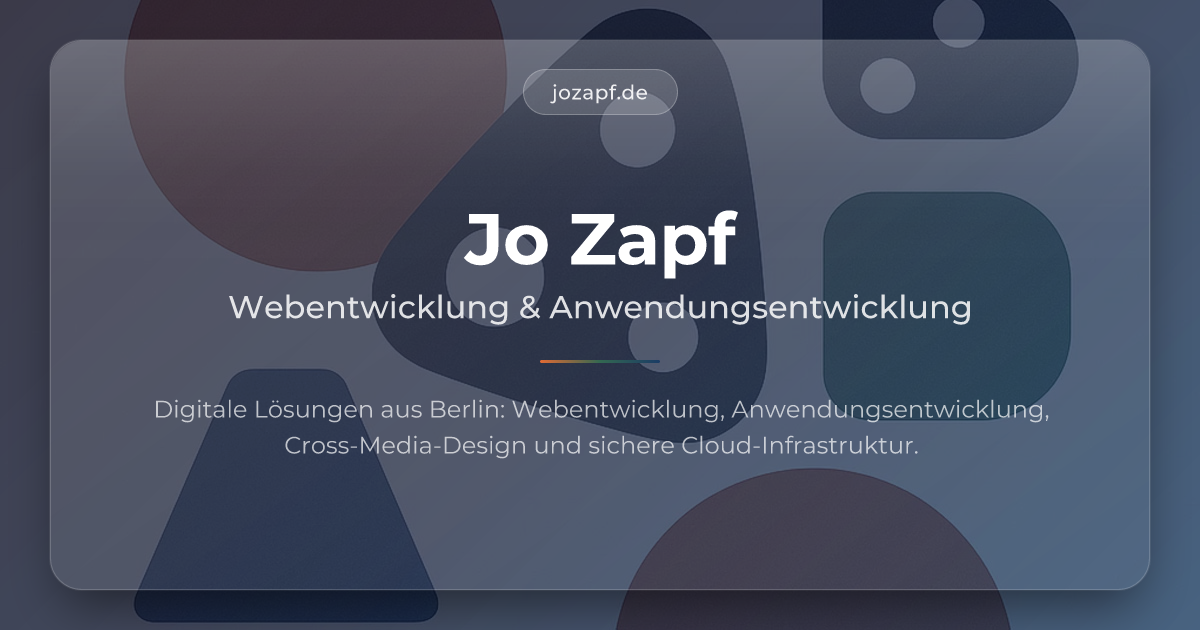
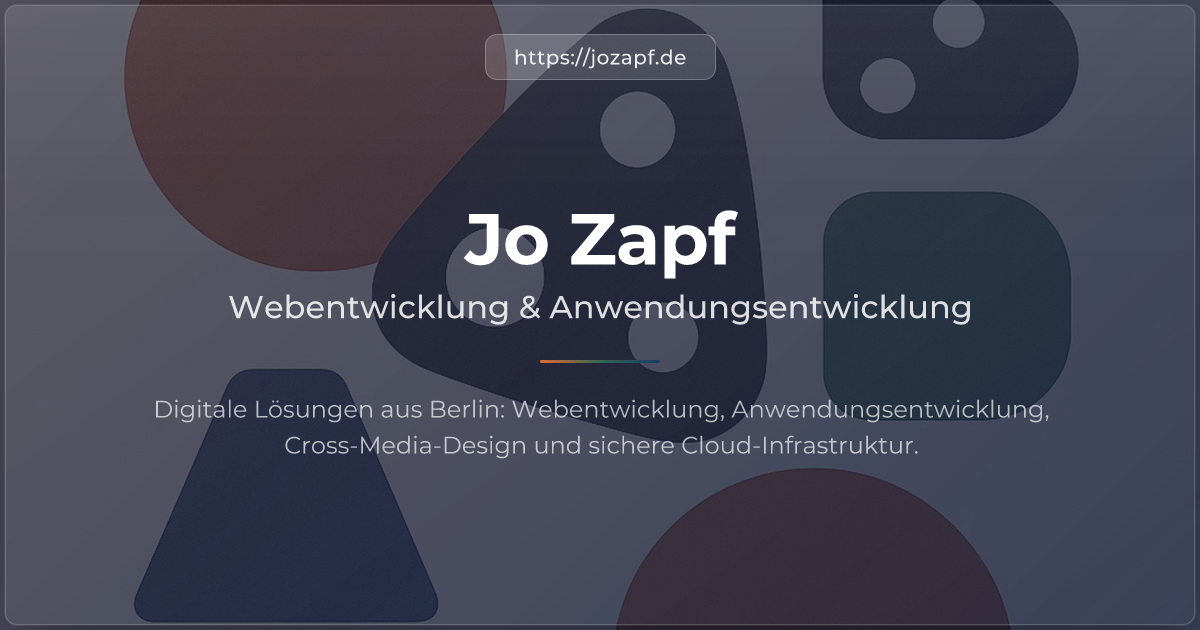
docs: updating og-images

Changed region(s): [[0.0, 0.0, 1.0, 1.0], [0.3083, 0.9349, 0.5242, 1.0], [0.2158, 0.9349, 0.2467, 0.9651]]

diff --git a/scripts/generate-og-images.ts b/scripts/generate-og-images.ts
@@ -48,28 +48,28 @@ const CONTENT = {
     title: 'Jo Zapf',
     subtitle: 'Webentwicklung & Anwendungsentwicklung',
     description: 'Digitale Lösungen aus Berlin: Webentwicklung, Anwendungsentwicklung, Cross-Media-Design und sichere Cloud-Infrastruktur.',
-    badge: 'jozapf.de',
+    badge: 'https://jozapf.de',
     filename: 'og-home-de.png',
   },
   en: {
     title: 'Jo Zapf',
     subtitle: 'Web Development & Application Development',
     description: 'Digital solutions from Berlin: Web development, application development, cross-media design and secure cloud infrastructure.',
-    badge: 'jozapf.de',
+    badge: 'https://jozapf.de',
     filename: 'og-home-en.png',
   },
   'praktikum-de': {
     title: 'Jo Zapf',
     subtitle: 'Pflichtpraktikum Anwendungsentwicklung',
     description: '· 960 Stunden · Berlin · FIAE (IHK) · Abschlussprojekt · DevOps · CI/CD · Anwendungsentwicklung · Systemintegration · Zero-Trust ·',
-    badge: 'jozapf.de/pflichtpraktikum-anwendungsentwicklung-berlin',
+    badge: 'https://jozapf.de/pflichtpraktikum-anwendungsentwicklung-berlin',
     filename: 'og-praktikum-de.png',
   },
   'praktikum-en': {
     title: 'Jo Zapf',
     subtitle: 'Mandatory Internship · Application Development',
     description: '960 hours · Berlin · FIAE (IHK) · final project · DevOps · CI/CD · application development ·system integration · zero-trust ·',
-    badge: 'jozapf.de/en/pflichtpraktikum-anwendungsentwicklung-berlin',
+    badge: 'https://jozapf.de/en/pflichtpraktikum-anwendungsentwicklung-berlin',
     filename: 'og-praktikum-en.png',
   },
 } as const;
@@ -149,7 +149,7 @@ function createOGTemplate(content: OGContentProps, bgImageDataUrl: string) {
               left: 0,
               right: 0,
               bottom: 0,
-              background: 'linear-gradient(135deg, rgba(26,26,46,0.85) 0%, rgba(22,33,62,0.80) 50%, rgba(15,52,96,0.75) 100%)',
+              background: 'linear-gradient(135deg, rgba(26,26,46,0.75) 0%, rgba(22,33,62,0.85) 100%, rgba(15,52,96,0.85) 100%)',
             },
           },
         },
@@ -158,9 +158,9 @@ function createOGTemplate(content: OGContentProps, bgImageDataUrl: string) {
           type: 'div',
           props: {
             style: {
-              width: 1100,
-              height: 550,
-              borderRadius: 32,
+              width: 1190,
+              height: 620,
+              borderRadius: 12,
               padding: '48px 56px',
               display: 'flex',
               flexDirection: 'column',
@@ -168,7 +168,7 @@ function createOGTemplate(content: OGContentProps, bgImageDataUrl: string) {
               justifyContent: 'center',
               position: 'relative',
               // Glass-morphism card
-              background: 'linear-gradient(145deg, rgba(255,255,255,0.12) 0%, rgba(255,255,255,0.05) 100%)',
+              background: 'linear-gradient(145deg, rgba(255,255,255,0.075) 0%, rgba(255,255,255,0.01) 100%)',
               border: '1px solid rgba(255,255,255,0.18)',
               boxShadow: '0 25px 50px -12px rgba(0,0,0,0.5), 0 0 0 1px rgba(255,255,255,0.1)',
             },
@@ -183,8 +183,8 @@ function createOGTemplate(content: OGContentProps, bgImageDataUrl: string) {
                     left: 0,
                     right: 0,
                     height: '50%',
-                    borderRadius: '32px 32px 0 0',
-                    background: 'linear-gradient(180deg, rgba(255,255,255,0.15) 0%, rgba(255,255,255,0.02) 60%, transparent 100%)',
+                    borderRadius: '12px 12px 0 0',
+                    background: 'linear-gradient(180deg, rgba(255,255,255,0.05) 0%, rgba(255,255,255,0.02) 35%, transparent 100%)',
                   },
                 },
               },
@@ -197,7 +197,7 @@ function createOGTemplate(content: OGContentProps, bgImageDataUrl: string) {
                     top: 28,
                     display: 'flex',
                     padding: '10px 28px',
-                    borderRadius: 50,
+                    borderRadius: 12,
                     background: 'rgba(255,255,255,0.15)',
                     border: '1px solid rgba(255,255,255,0.25)',
                     fontSize: 20,
